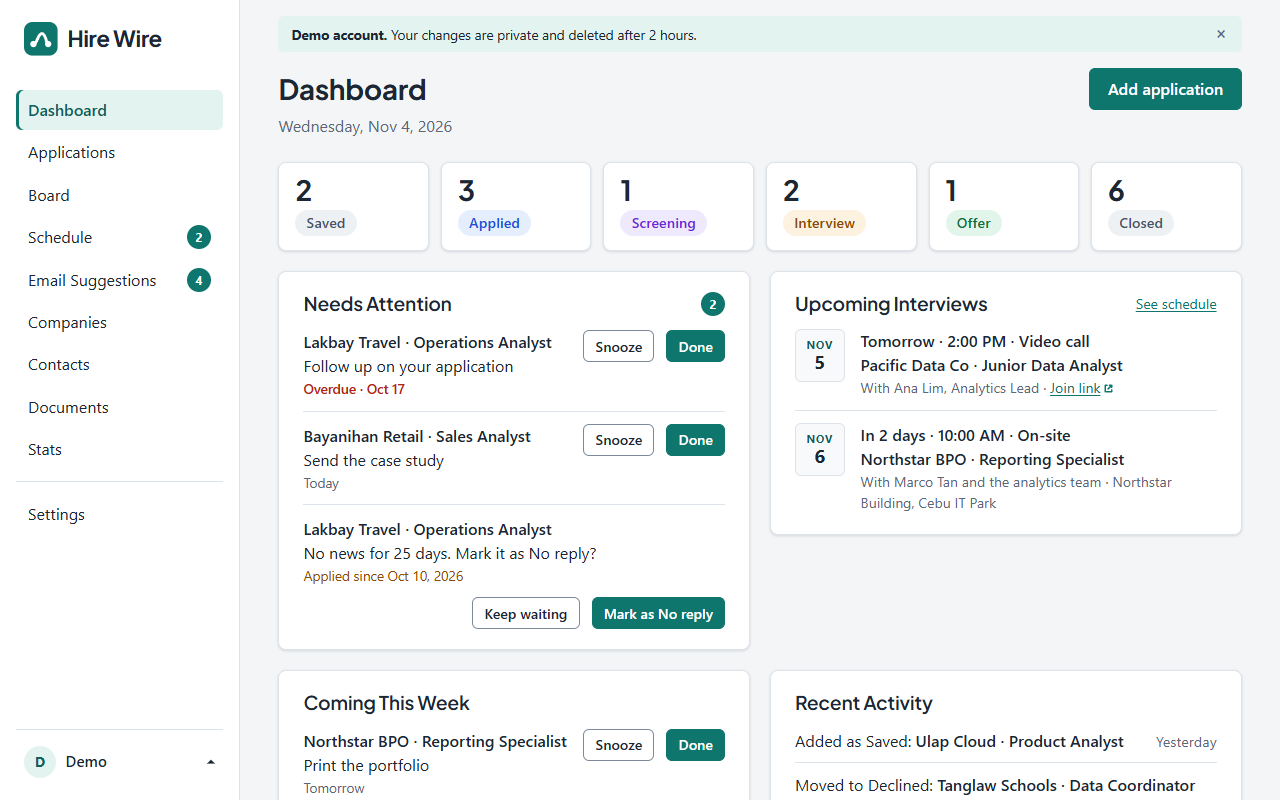
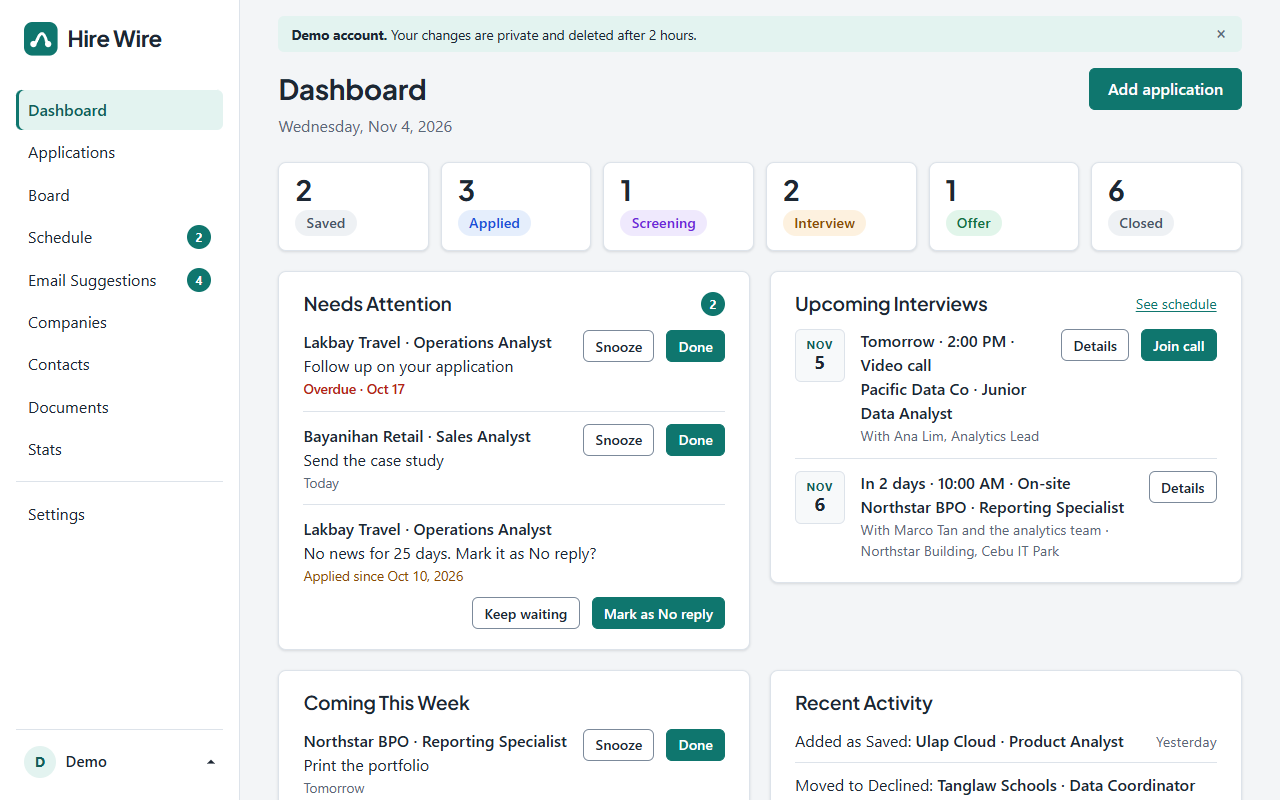
Schedule and email suggestions: interview actions, toasts, clear feedback
From a design review the user pasted:
- Interviews on the Schedule and the Dashboard get their own actions:
  "Join call" (when there is a video link, new tab) and "Details". They
  never had Done; that belongs to the follow-ups beside them.
- Messages float as toasts in the corner. Good news fades after 6
  seconds (not while pointed at or focused); problems are flashed as
  "error" and stay until closed. Without JavaScript they stay at the
  top of the page as before.
- Accepting an email suggestion says what changed, for example
  "Interview with Tala Health added to your schedule: Mon, Nov 9, 2026
  at 9:00 AM."
- The suggestion's fields were already editable before Accept.
- All README pictures retaken.

Changed region(s): [[0.625, 0.4062, 0.9688, 0.7188]]

diff --git a/hirewire/static/style.css b/hirewire/static/style.css
@@ -184,8 +184,18 @@ img { max-width: 100%; height: auto; display: block; }
 .empty-state.small-empty { margin: 0; padding: 1rem; text-align: left; }
 
 .flashes { margin: 0 0 1rem; }
-.flash { margin: 0 0 .5rem; padding: .7rem 1rem; background: var(--accent-soft); border-left: 3px solid var(--accent); border-radius: var(--radius-small); }
+.flash { display: flex; align-items: flex-start; gap: .75rem; margin: 0 0 .5rem; padding: .7rem .6rem .7rem 1rem; background: var(--accent-soft); border-left: 3px solid var(--accent); border-radius: var(--radius-small); }
+.flash p { flex: 1; margin: 0; }
 .flash-error { background: var(--danger-soft); border-left-color: var(--danger); }
+.flash-close { flex: none; width: 1.6rem; height: 1.6rem; margin: -.1rem 0; padding: 0; background: none; border: 0; border-radius: 50%; color: var(--ink-soft); font-size: 1.15rem; line-height: 1; cursor: pointer; }
+.flash-close:hover { background: var(--surface); color: var(--ink); }
+/* With JavaScript: toasts in the bottom right corner (across the bottom on phones). */
+.js .flashes { position: fixed; right: 1.5rem; bottom: 1.5rem; z-index: 50; width: min(26rem, calc(100% - 2rem)); margin: 0; }
+.js .flash { background: var(--surface); border: 1px solid var(--rule); border-left: 4px solid var(--accent); box-shadow: 0 .5rem 1.5rem rgb(0 0 0 / .18); animation: toast-in .2s ease-out; }
+.js .flash-error { border-left-color: var(--danger); }
+.js .flash.is-leaving { opacity: 0; transform: translateY(.5rem); transition: opacity .3s, transform .3s; }
+@keyframes toast-in { from { opacity: 0; transform: translateY(.75rem); } }
+@media (max-width: 47.99rem) { .js .flashes { right: 1rem; left: 1rem; bottom: 1rem; width: auto; } }
 /* The demo's note: one thin line, closable (app.js), in full ink so it reads in both themes. */
 .demo-note { display: flex; align-items: center; justify-content: space-between; gap: .75rem; margin: -.75rem 0 1rem; padding: .25rem .4rem .25rem .8rem; border-radius: var(--radius-small); background: var(--accent-soft); color: var(--ink); font-size: .85rem; }
 .demo-note p { margin: 0; }

diff --git a/hirewire/templates/_reminders.html b/hirewire/templates/_reminders.html
@@ -47,12 +47,19 @@
       {% if show_job %}
         <a class="reminder-job" href="{{ url_for('applications.detail', job_id=interview.application.id) }}#interviews">{{ interview.application.company.name }} · {{ interview.application.role_title }}</a>
       {% endif %}
-      {% if interview.with_whom or interview.place %}
+      {% if interview.with_whom or (interview.place and not interview.place_is_link) %}
         <p class="muted small">
           {%- if interview.with_whom %}With {{ interview.with_whom }}{% endif -%}
-          {%- if interview.with_whom and interview.place %} · {% endif -%}
-          {%- if interview.place_is_link %}{{ outside_link(interview.place, 'Join link') }}{% elif interview.place %}{{ interview.place }}{% endif -%}
+          {%- if interview.with_whom and interview.place and not interview.place_is_link %} · {% endif -%}
+          {%- if interview.place and not interview.place_is_link %}{{ interview.place }}{% endif -%}
         </p>
+      {% endif %}
+    </div>
+    {# An interview isn't "done" like a follow-up: what you want is to join it, or see its notes. #}
+    <div class="reminder-actions">
+      <a class="button button-quiet button-small" href="{{ url_for('applications.detail', job_id=interview.application.id) }}#interviews">Details</a>
+      {% if interview.place_is_link %}
+        <a class="button button-small" href="{{ interview.place }}" target="_blank" rel="noopener noreferrer nofollow">Join call<span class="visually-hidden"> (opens in a new tab)</span></a>
       {% endif %}
     </div>
   </li>

diff --git a/hirewire/static/app.js b/hirewire/static/app.js
@@ -61,6 +61,28 @@ function setUpConfirm() {
   });
 }
 
+// Messages float as toasts. Good news fades after 6 seconds (not while pointed at or
+// focused); a problem stays until closed, so nobody misses it.
+function setUpToasts() {
+  document.querySelectorAll("[data-flash]").forEach((toast) => {
+    const close = toast.querySelector("[data-flash-close]");
+    close.hidden = false;
+    const leave = () => {
+      toast.classList.add("is-leaving");
+      setTimeout(() => toast.remove(), 300);
+    };
+    close.addEventListener("click", leave);
+    if ("stays" in toast.dataset) return;
+    let timer = setTimeout(leave, 6000);
+    const pause = () => clearTimeout(timer);
+    const resume = () => { clearTimeout(timer); timer = setTimeout(leave, 3000); };
+    toast.addEventListener("mouseenter", pause);
+    toast.addEventListener("focusin", pause);
+    toast.addEventListener("mouseleave", resume);
+    toast.addEventListener("focusout", resume);
+  });
+}
+
 // "Copy" buttons next to a recovery code or a calendar link.
 function setUpCopy() {
   document.querySelectorAll("[data-copy-button]").forEach((button) => {
@@ -241,6 +263,7 @@ function setUpDemoNote() {
 }
 
 setUpTheme();
+setUpToasts();
 setUpDemoNote();
 setUpMenu();
 setUpUserMenu();

diff --git a/hirewire/templates/base.html b/hirewire/templates/base.html
@@ -27,10 +27,17 @@
         <button class="demo-close" type="button" data-demo-close aria-label="Hide this note" hidden>&times;</button>
       </div>
     {% endif %}
-    {% with messages = get_flashed_messages() %}
+    {# Messages after an action. With JavaScript they float as toasts (app.js): good news fades
+       after a few seconds, a problem ("error") stays until closed. Without it, they sit here. #}
+    {% with messages = get_flashed_messages(with_categories=true) %}
       {% if messages %}
-        <div class="flashes" role="status">
-          {% for message in messages %}<p class="flash">{{ message }}</p>{% endfor %}
+        <div class="flashes" role="status" data-flashes>
+          {% for category, message in messages %}
+            <div class="flash{% if category == 'error' %} flash-error{% endif %}" data-flash{% if category == 'error' %} data-stays{% endif %}>
+              <p>{{ message }}</p>
+              <button class="flash-close" type="button" data-flash-close aria-label="Close this message" hidden>&times;</button>
+            </div>
+          {% endfor %}
         </div>
       {% endif %}
     {% endwith %}

diff --git a/hirewire/views/inbox.py b/hirewire/views/inbox.py
@@ -64,7 +64,7 @@ def check_now():
         return redirect(url_for("settings.index") + "#gmail")
     added, problem = run_check(utcnow())
     if problem:
-        flash(problem)
+        flash(problem, "error")
     else:
         flash(f"Found {added} new {'suggestion' if added == 1 else 'suggestions'}." if added else "No new job emails.")
     return redirect(url_for("inbox.index"))
@@ -85,24 +85,24 @@ def accept(suggestion_id):
     choice = request.form.get("application", "")
     job = get_mine(Application, int(choice)) if choice.isdigit() else None
     if job is None and choice != "new":
-        flash("Choose an application, or New application.")
+        flash("Choose an application, or New application.", "error")
         return redirect(url_for("inbox.index"))
     when = None
     if suggestion.kind == "interview" and request.form.get("when"):
         try:
             when = parse_local(request.form["when"], g.user.timezone)
         except ValueError:
-            flash("Use a date and time like 2026-11-12 14:00.")
+            flash("Use a date and time like 2026-11-12 14:00.", "error")
             return redirect(url_for("inbox.index"))
     try:
         job = suggestions.accept(s, suggestion, g.user, utcnow(), job=job, when=when,
                                  role=request.form.get("role", "").strip())
     except suggestions.SuggestionProblem as problem:
         s.rollback()
-        flash(str(problem))
+        flash(str(problem), "error")
         return redirect(url_for("inbox.index"))
     s.commit()
-    flash(f"Done: {job.role_title} at {job.company.name} is up to date.")
+    flash(suggestions.accepted_message(suggestion, job, created=choice == "new", when=when))
     return redirect(auth.safe_next(request.form.get("next"), url_for("inbox.index")))
 
 

diff --git a/hirewire/suggestions.py b/hirewire/suggestions.py
@@ -12,6 +12,7 @@ from sqlalchemy.orm import selectinload
 
 from . import companies, crypto, gmail, mail_rules, reminders, workflow
 from .dates import local_today
+from .formatting import local_day, nice_day, nice_time
 from .models import (
     APPLIED, CLOSED_STAGES, INTERVIEW, OFFER, REJECTED, SAVED, Application, Company, EmailSuggestion, GmailAccount,
     Interview, Note,
@@ -107,6 +108,24 @@ def describe(suggestion):
     if suggestion.kind == "rejection":
         return "Close it as Rejected." if job else "Choose the application this rejection is about."
     return "Move it to Offer." if job else "Choose the application this offer is about."
+
+
+def accepted_message(suggestion, job, created, when):
+    """The toast after Accept: exactly what changed."""
+    company = job.company.name
+    if suggestion.kind == "interview":
+        if when is not None:
+            day = local_day(when)
+            return (f"Interview with {company} added to your schedule: {day:%a}, {nice_day(day)} "
+                    f"at {nice_time(when)}.")
+        return f"{company} moved to Interview. Add the time on its page when you know it."
+    if suggestion.kind == "applied":
+        if created:
+            return f"Added {job.role_title} at {company}, as Applied."
+        return f"{company}: {job.role_title} is marked as Applied."
+    if suggestion.kind == "rejection":
+        return f"{company}: closed as Rejected. On to the next one."
+    return f"{company}: moved to Offer. Congratulations!"
 
 
 def accept(s, suggestion, user, moment, job=None, when=None, role=""):

diff --git a/tests/test_automation.py b/tests/test_automation.py
@@ -308,6 +308,26 @@ def test_accept_an_interview_as_a_new_application(app, me, user_id, monkeypatch,
     assert thank_you.due_on == date(2026, 11, 13)
 
 
+def test_accept_says_exactly_what_changed(app, me, user_id, monkeypatch, fake_gmail):
+    connect(me, monkeypatch)
+    me.get("/email-suggestions/")
+    second = suggestion_rows(app)[1]
+    response = post(me, f"/email-suggestions/{second.id}/accept",
+                    {"application": "new", "role": "Analyst", "when": "2026-11-12T15:00"}, follow_redirects=True)
+    page = response.get_data(as_text=True)
+    assert "Interview with Globe added to your schedule: Thu, Nov 12, 2026 at 3:00 PM." in page
+    assert 'class="flash"' in page and "data-stays" not in page  # good news: a toast that fades
+
+
+def test_a_problem_message_stays_until_closed(app, ctx, me, user_id):
+    suggestions.add_from_raw(ctx, ctx.get(User, user_id), [raw_email("Update", "Unfortunately, we are not moving forward.")],
+                             utcnow())
+    ctx.commit()
+    row_id = suggestion_rows(app)[0].id
+    page = post(me, f"/email-suggestions/{row_id}/accept", {"application": "new"}, follow_redirects=True).get_data(as_text=True)
+    assert 'class="flash flash-error" data-flash data-stays' in page
+
+
 def test_a_rejection_needs_an_application(app, ctx, me, user_id):
     job_id = add_job(app, user_id, "Acme", stage="interview")
     raws = [raw_email("Update on your application", "Unfortunately, we are not moving forward.")]

diff --git a/tests/test_demo.py b/tests/test_demo.py
@@ -172,8 +172,19 @@ def test_each_stat_card_opens_its_applications(demo):
     assert "6 applications" in closed
 
 
-def test_join_links_open_in_a_new_tab(demo):
-    page = demo.get("/dashboard/").get_data(as_text=True)
+def test_interviews_offer_join_call_and_details_not_done(demo):
+    for url in ("/dashboard/", "/schedule/"):
+        page = demo.get(url).get_data(as_text=True)
+        row = re.search(r'<li class="interview-row">.*?</li>', page, re.DOTALL).group(0)
+        join = re.search(r'<a class="button button-small" href="https://meet[^"]+"[^>]*>Join call.*?</a>', row, re.DOTALL)
+        assert join and 'target="_blank"' in join.group(0) and "noopener" in join.group(0)
+        assert "(opens in a new tab)" in join.group(0)
+        assert ">Details</a>" in row and ">Done<" not in row
+
+
+def test_join_links_open_in_a_new_tab(app, demo):
+    job_id = db_rows(app, select(Application.id).where(Application.role_title == "Junior Data Analyst"))[0][0]
+    page = demo.get(f"/applications/{job_id}").get_data(as_text=True)
     join = re.search(r'<a href="https://meet[^"]+"[^>]*>Join link.*?</a>', page, re.DOTALL).group(0)
     assert 'target="_blank"' in join and "noopener" in join and "(opens in a new tab)" in join
 

diff --git a/hirewire/views/applications.py b/hirewire/views/applications.py
@@ -76,7 +76,7 @@ def save_view():
     name, problem = forms.text(request.form, "name", filters.VIEW_NAME_LIMIT, required=True, label="A name")
     query = filters.view_query(MultiDict(parse_qsl(request.form.get("query", ""))))
     if problem:
-        flash(problem)
+        flash(problem, "error")
         return redirect(url_for("applications.index") + ("?" + query if query else ""))
     view = s.scalar(mine(SavedView).where(SavedView.name == name))
     if view is None:
@@ -184,7 +184,7 @@ def move(job_id):
         s.rollback()
         if wants_json():
             return jsonify(error=str(problem)), 409
-        flash(str(problem))
+        flash(str(problem), "error")
     else:
         s.commit()
         if wants_json():
@@ -228,7 +228,7 @@ def add_note(job_id):
     job = get_job(job_id)
     body, problem = forms.text(request.form, "body", 5000, required=True, label="A note")
     if problem:
-        flash(problem)
+        flash(problem, "error")
     else:
         moment = utcnow()
         db.session().add(Note(application=job, body=body, created_at=moment))

diff --git a/hirewire/views/reminders.py b/hirewire/views/reminders.py
@@ -133,7 +133,7 @@ def add_follow_up(job_id):
     due_on, note, errors = read_follow_up(request.form)
     if errors:
         for problem in errors.values():
-            flash(problem)
+            flash(problem, "error")
     else:
         db.session().add(FollowUp(application=job, due_on=due_on, note=note, created_at=utcnow()))
         db.session().commit()
@@ -218,7 +218,7 @@ def mark_no_reply(job_id):
         workflow.move(s, job, NO_REPLY, g.user, utcnow(), note="No reply after waiting")
     except workflow.MoveNotAllowed as problem:
         s.rollback()
-        flash(str(problem))
+        flash(str(problem), "error")
     else:
         s.commit()
         flash("Closed as No reply. If they answer later, you can move it back.")

diff --git a/hirewire/views/contacts.py b/hirewire/views/contacts.py
@@ -114,7 +114,7 @@ def link(job_id):
     job = get_mine(Application, job_id)
     contact_id = request.form.get("contact_id", "")
     if not contact_id.isdigit():
-        flash("Choose a person from the list.")
+        flash("Choose a person from the list.", "error")
         return redirect(url_for("applications.detail", job_id=job.id) + "#people")
     contact = get_mine(Contact, int(contact_id))
     role = request.form.get("role") if request.form.get("role") in CONTACT_ROLES else "other"

diff --git a/AGENTS.md b/AGENTS.md
@@ -41,6 +41,8 @@ Python 3.13 is at `%LOCALAPPDATA%\Programs\Python\Python313\python.exe`. Use the
 - Outlined (quiet) buttons use `--control-border`, at least 3:1 against the card, so they never look switched off. Links to other sites use `outside_link()` in `_macros.html` (new tab, `noopener`, a small arrow and "opens in a new tab" for screen readers).
 - The Applications table: job title and company share the first column (`.col-job`), which is `position: sticky` so it stays put when a narrow screen scrolls sideways. A sticky cell traps the old whole-row `::after` link, so rows have `data-href` and `setUpRowLinks()` opens them on a click (the title stays the real link). The filter panel is a closed `<details>` whose summary sits inside the search box; `setUpFilterPanel()` remembers it open while boxes are ticked, and empty fields are left out of the address.
 - Board cards: a coloured company letter (`.company-badge-N`, N = company id % 6, colours via `light-dark()` and checked at 6.3:1 or more), a drag handle, and a small move button whose `<details>` menu is the keyboard / phone / no-JavaScript way to move a card (keep it). A click on a card opens the application (`setUpRowLinks()`). Column tops use the stage's ink colour. All scrolling areas share thin themed scrollbars.
+- Messages (`flash()`) float as toasts with JavaScript (`setUpToasts()`): good news fades after 6 seconds (paused while pointed at or focused); pass `"error"` as the category for a problem, and its toast stays until closed. Without JavaScript they sit at the top of the page. Write messages that say what changed ("Interview with Acme added to your schedule: ...").
+- Interview rows offer "Details" and, with a video link, "Join call"; only follow-ups have Done and Snooze.
 - Stage pills always show the stage's name (never colour alone). Dark mode is defined twice in `style.css` (device setting + Settings choice): change both blocks together.
 - **Every PR must keep the README's pictures up to date (the owner's standing rule).** Screenshots live in `docs/screenshots/` and every one is shown in the README. If a PR visibly changes a page, retake its pictures; if it adds a page or feature, add a picture to `docs/take_screenshots.py` and the README. `tests/test_readme.py` fails if they disagree. In a PR description, link pictures with a full `raw.githubusercontent.com` address.
 - Commit messages and PR bodies go through files (`git commit -F`, `gh pr create --body-file`): PowerShell 5.1 breaks quotes in arguments.
